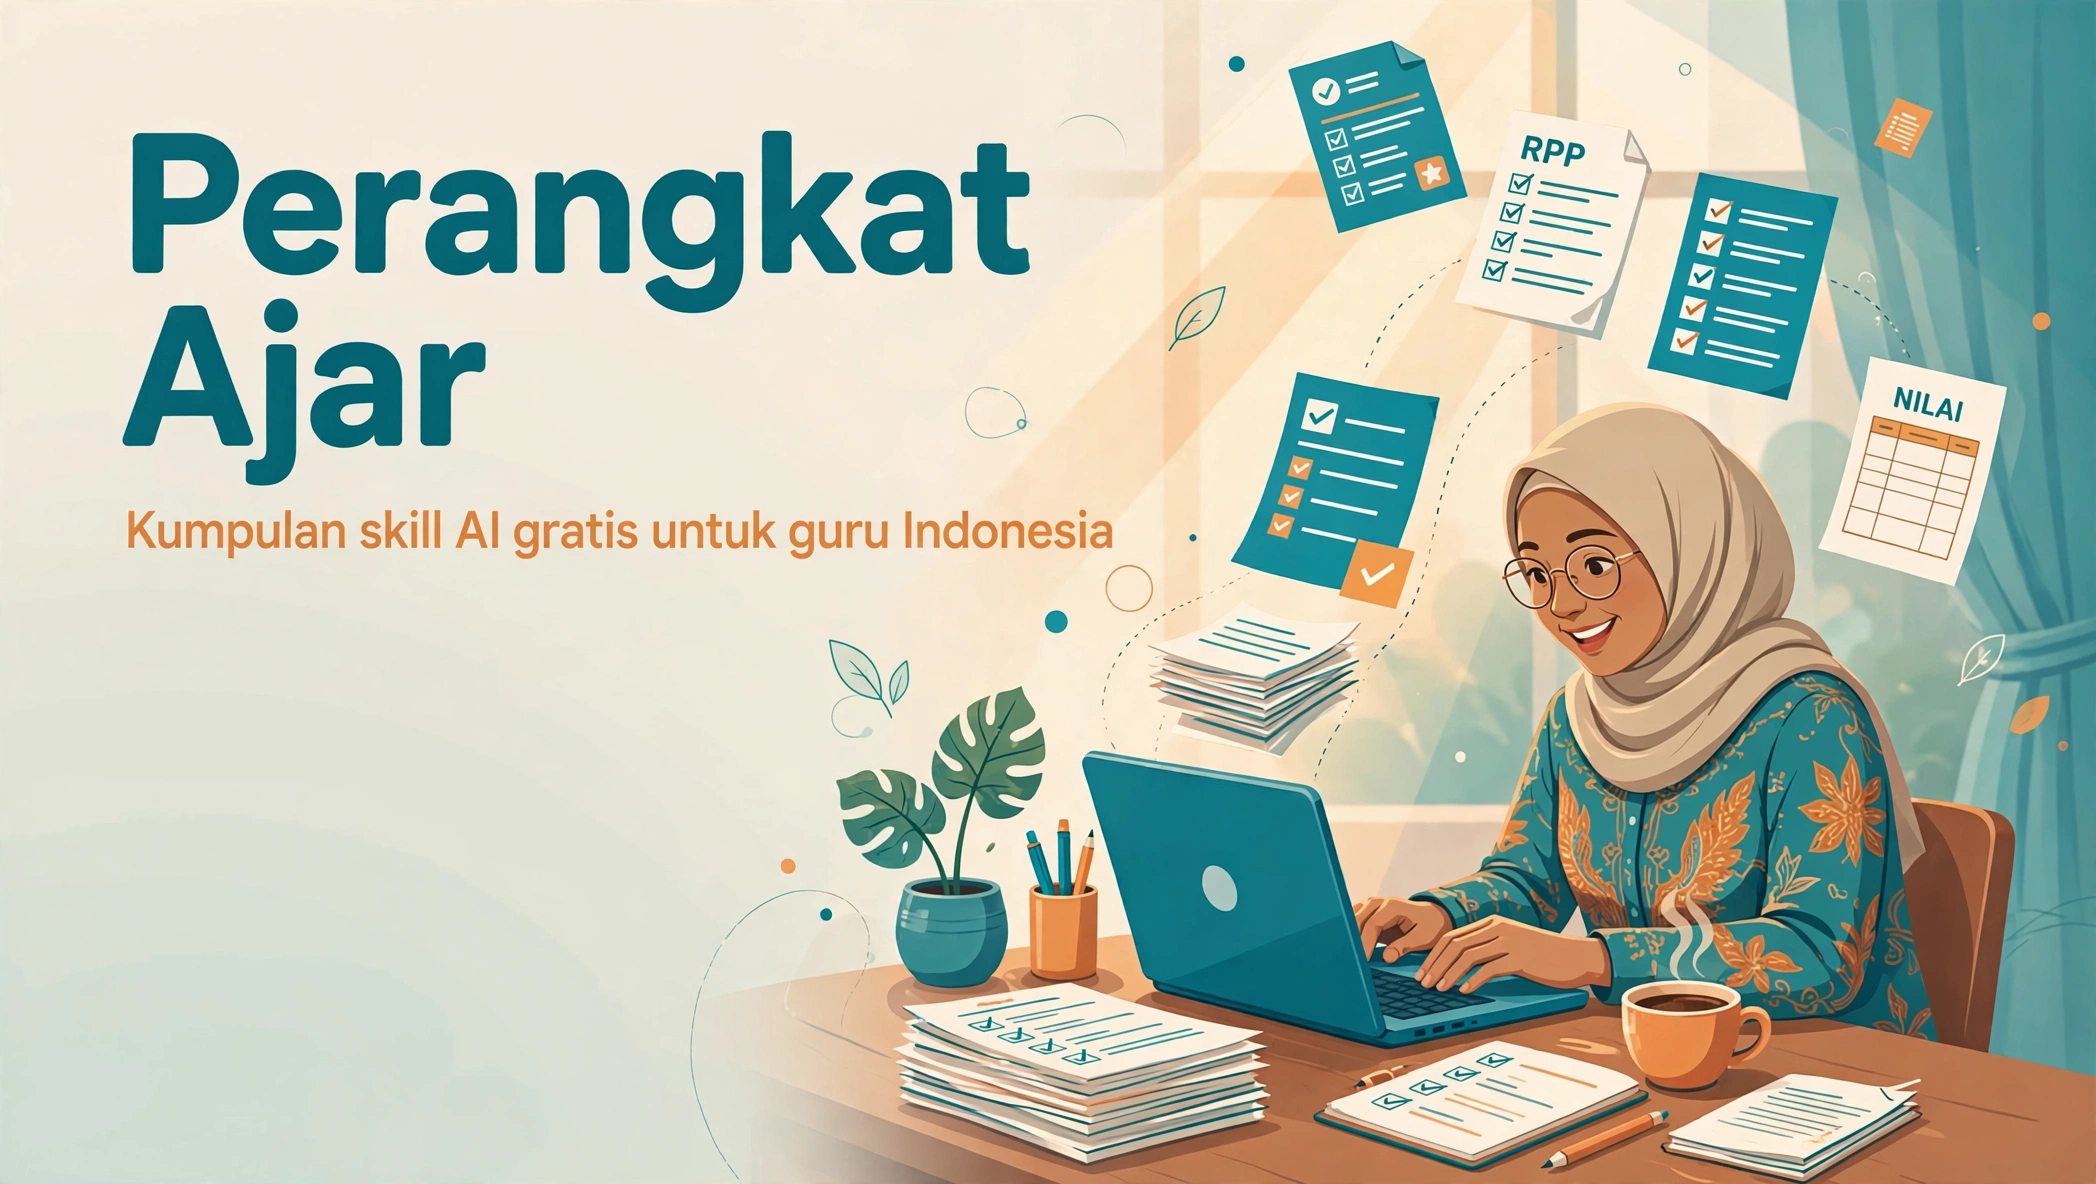
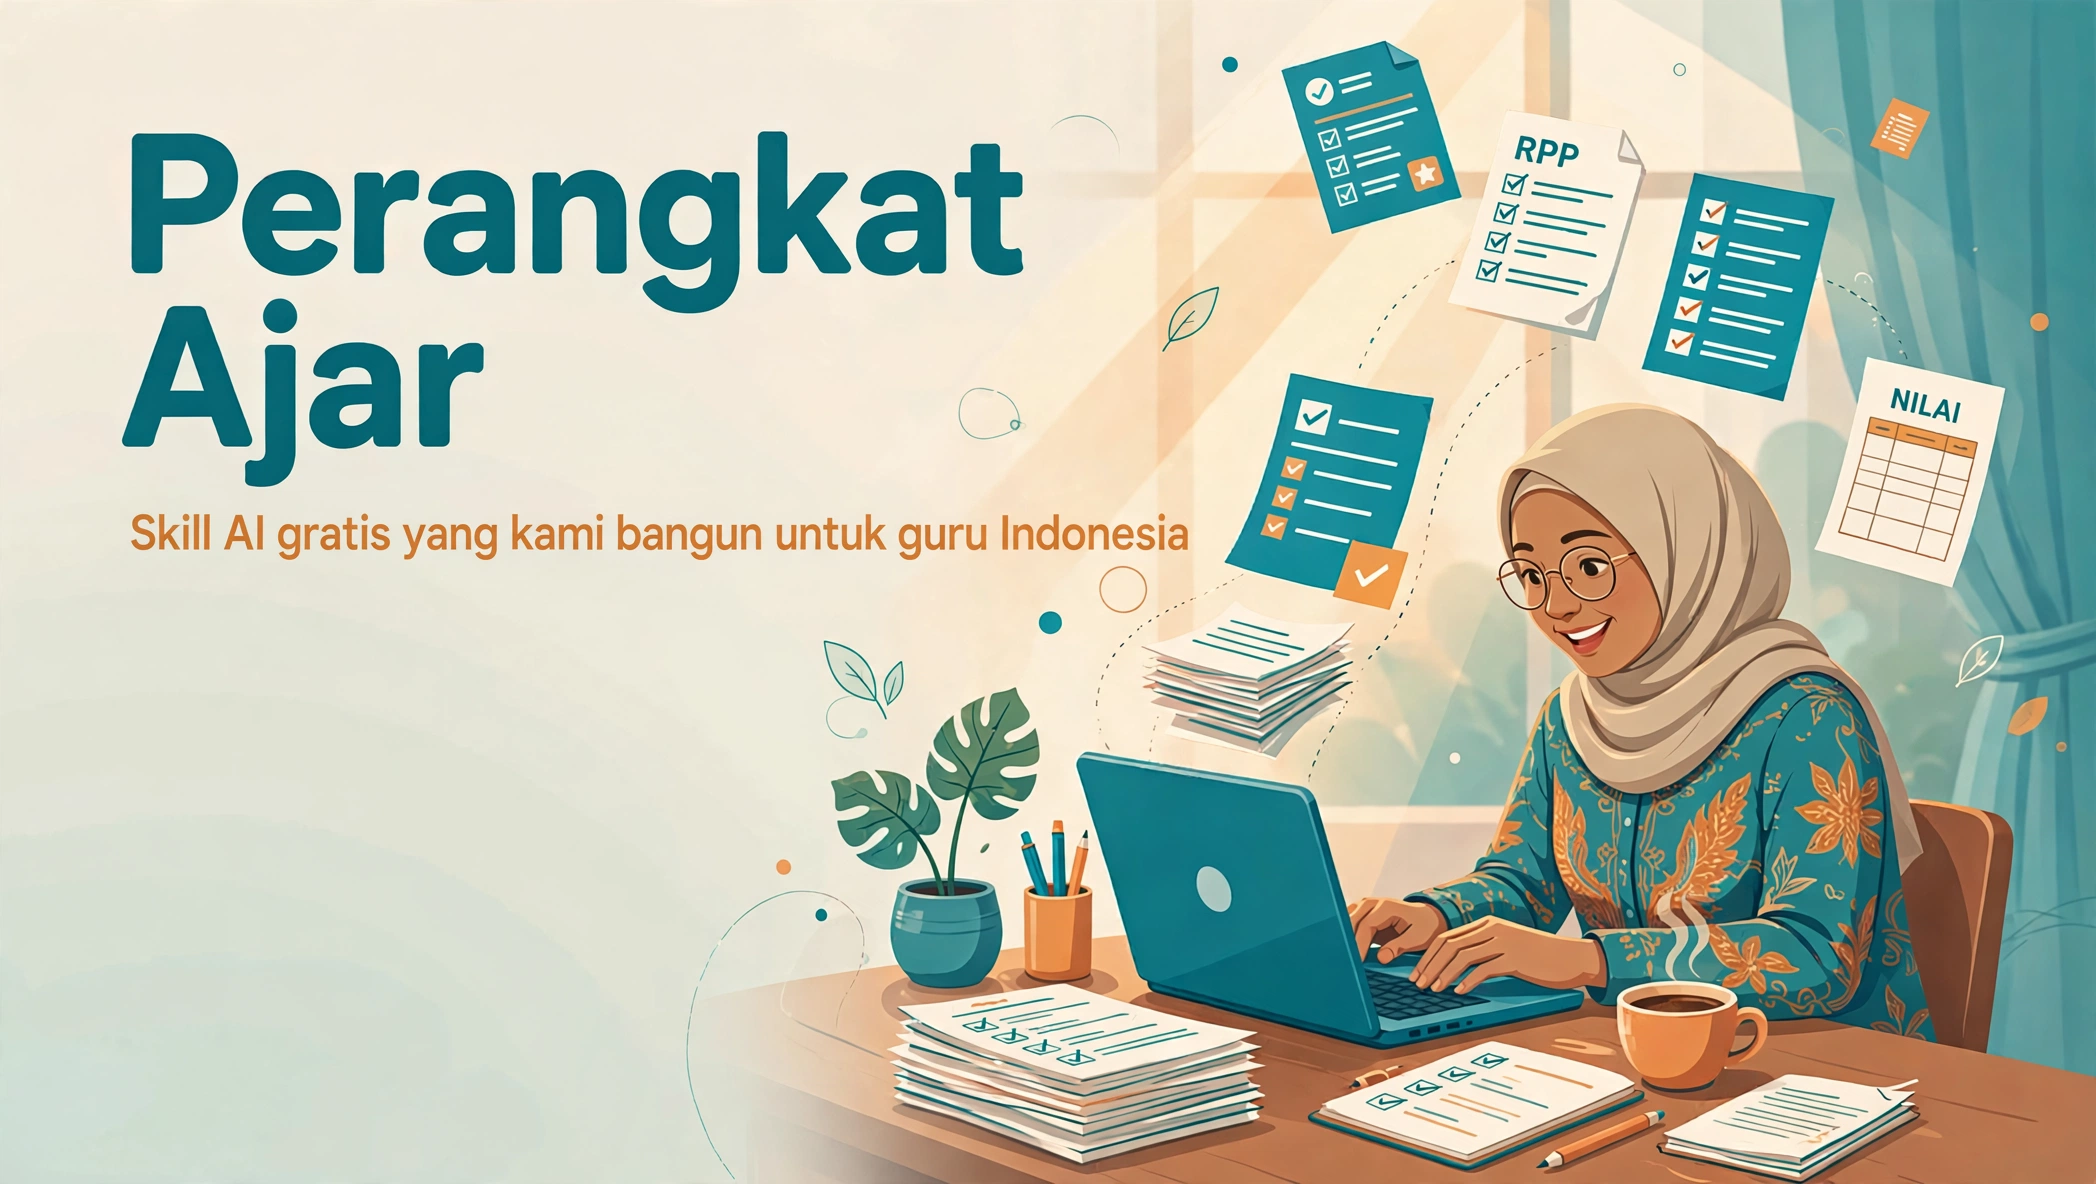
docs: tegaskan skill dirancang dan dibangun sendiri

diff --git a/README.md b/README.md
@@ -2,7 +2,7 @@
 
 # Perangkat Ajar
 
-**Kumpulan skill AI gratis untuk guru Indonesia menyusun perangkat pembelajaran, dari Capaian Pembelajaran sampai rapor.**
+**Skill AI open source yang kami rancang dan bangun khusus untuk guru Indonesia, dari Capaian Pembelajaran sampai rapor.**
 
 ![Gratis untuk Guru Indonesia](https://img.shields.io/badge/Gratis-untuk%20Guru%20Indonesia-brightgreen)
 ![Lisensi](https://img.shields.io/badge/Lisensi-MIT-blue)
@@ -22,7 +22,9 @@ Kami percaya teknologi seharusnya meringankan, bukan menambah beban. Makanya pro
 
 ## Apa Ini?
 
-`perangkat-ajar` adalah kumpulan skill AI open source yang membantu guru menyusun perangkat pembelajaran secara runtut: analisis Capaian Pembelajaran, Alur Tujuan Pembelajaran, program tahunan dan semester, modul ajar, LKPD, soal dan asesmen, pengolahan nilai, sampai deskripsi rapor.
+`perangkat-ajar` adalah paket skill AI open source yang kami rancang dan bangun sendiri dari nol, khusus untuk kebutuhan guru di Indonesia. Isinya 17 skill yang mengikuti alur kerja guru secara runtut: analisis Capaian Pembelajaran, Alur Tujuan Pembelajaran, program tahunan dan semester, modul ajar, LKPD, soal dan asesmen, pengolahan nilai, sampai deskripsi rapor.
+
+Setiap skill kami tulis berdasarkan alur administrasi guru yang sebenarnya. Ini bukan template generik, dan bukan kumpulan skill buatan orang lain.
 
 AI membantu membuat draf, merapikan alur, menghitung, dan memeriksa konsistensi. Keputusan tetap di tangan guru: tujuan, strategi, penilaian, dan penyesuaian dengan murid serta kebijakan sekolah.
 
@@ -66,7 +68,7 @@ Kontribusi sangat terbuka: perbaikan skill, template format sekolah baru, dokume
 
 ## Kredit
 
-- **Ide dan inisiator:** Pratomo Bowo Leksono
+- **Dikonsep dan dibangun oleh:** Pratomo Bowo Leksono
 - **Kontributor:** Bagus Abdul Karim, pembaruan skill dan penyusun alur administrasi guru
 
 Dikembangkan dari kebutuhan nyata guru dan terus disempurnakan lewat pemakaian serta masukan komunitas.
